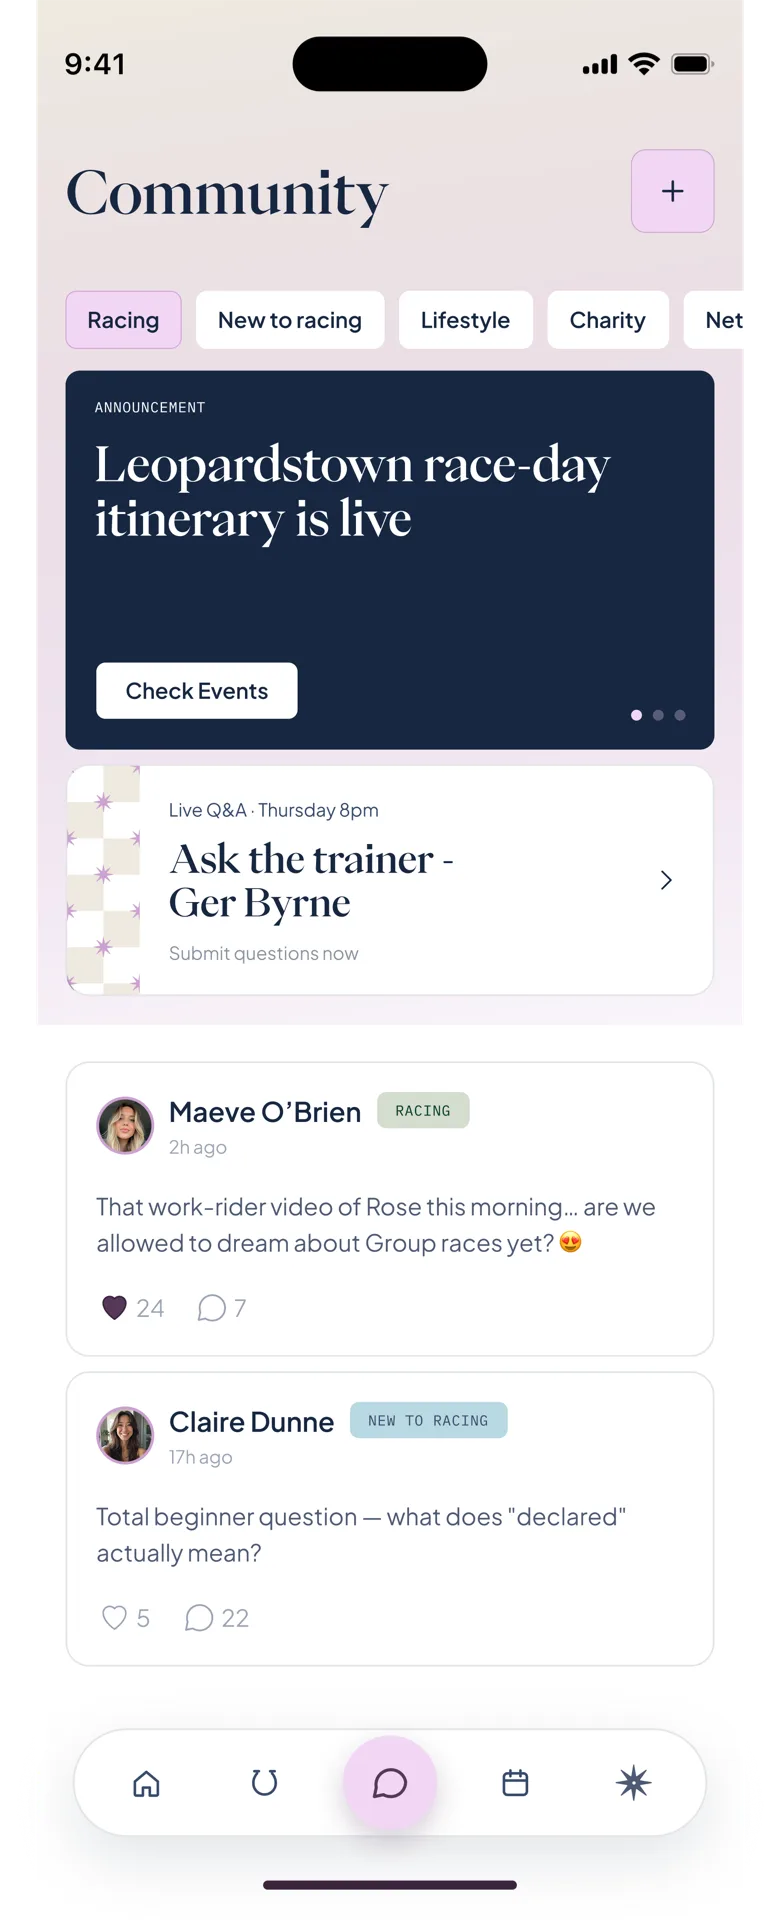
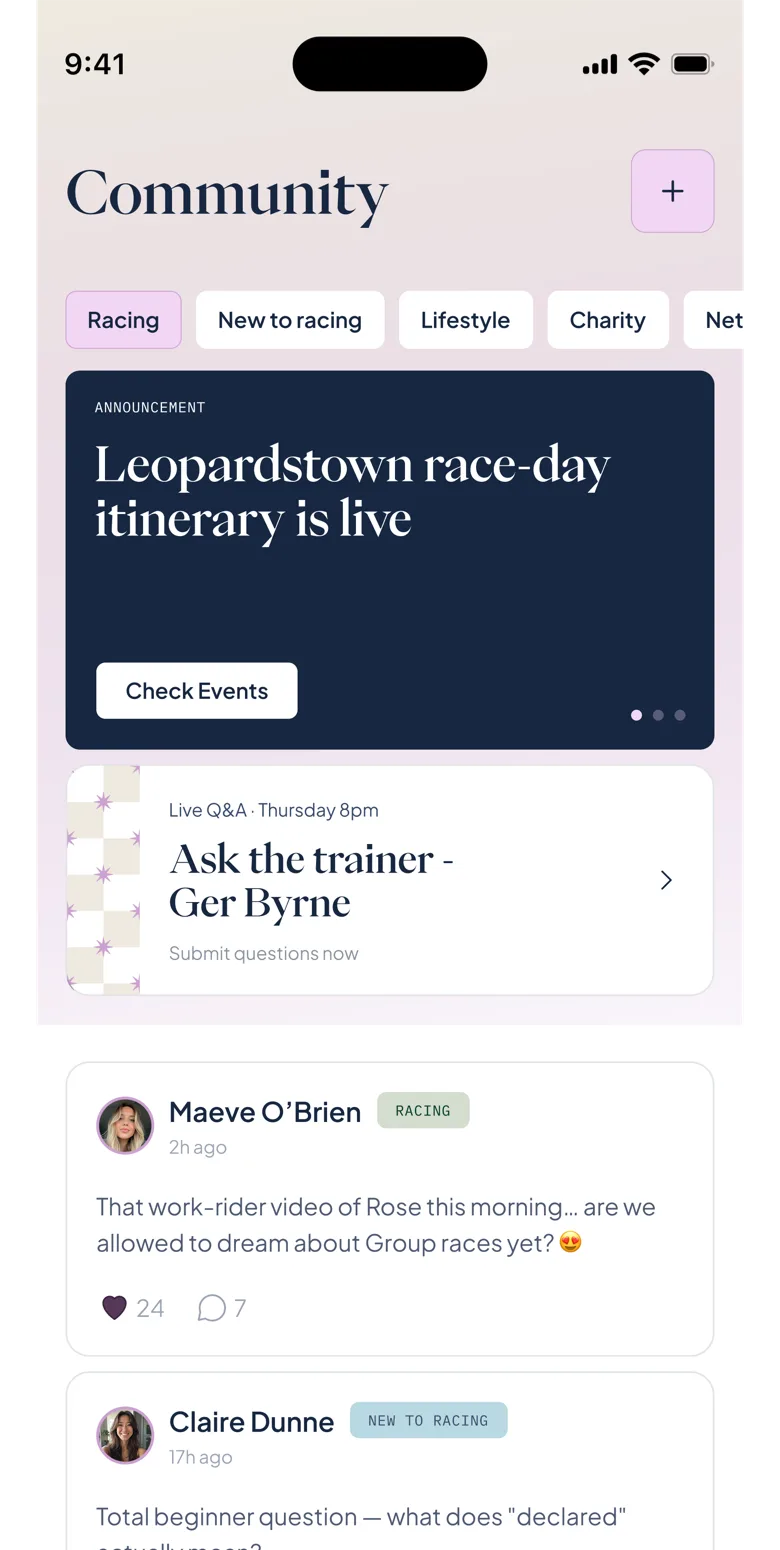
fix(marketing): pre-crop app screens to 780x1550, fill-based phone frame

diff --git a/apps/marketing/modules/app-showcase/components/PhoneFrame.tsx b/apps/marketing/modules/app-showcase/components/PhoneFrame.tsx
@@ -1,7 +1,7 @@
 import { cn } from "@repo/ui";
 import Image from "next/image";
 
-/** CSS phone: ink bezel, soft highlight. The frames are full-page captures of varying height; show the top 780x1550 as one phone screen. */
+/** CSS phone: ink bezel, soft highlight. The frames are full-page captures of varying height; assets are pre-cropped to 780x1550 as one phone screen. */
 export function PhoneFrame({
 	src,
 	alt,
@@ -22,15 +22,16 @@ export function PhoneFrame({
 				className,
 			)}
 		>
-			<Image
-				src={src}
-				alt={alt}
-				width={780}
-				height={1550}
-				sizes={sizes}
-				priority={priority}
-				className="h-auto w-full rounded-[35px]"
-			/>
+			<div className="relative aspect-[780/1550] w-full overflow-hidden rounded-[35px]">
+				<Image
+					src={src}
+					alt={alt}
+					fill
+					sizes={sizes}
+					priority={priority}
+					className="object-cover object-top"
+				/>
+			</div>
 		</div>
 	);
 }
